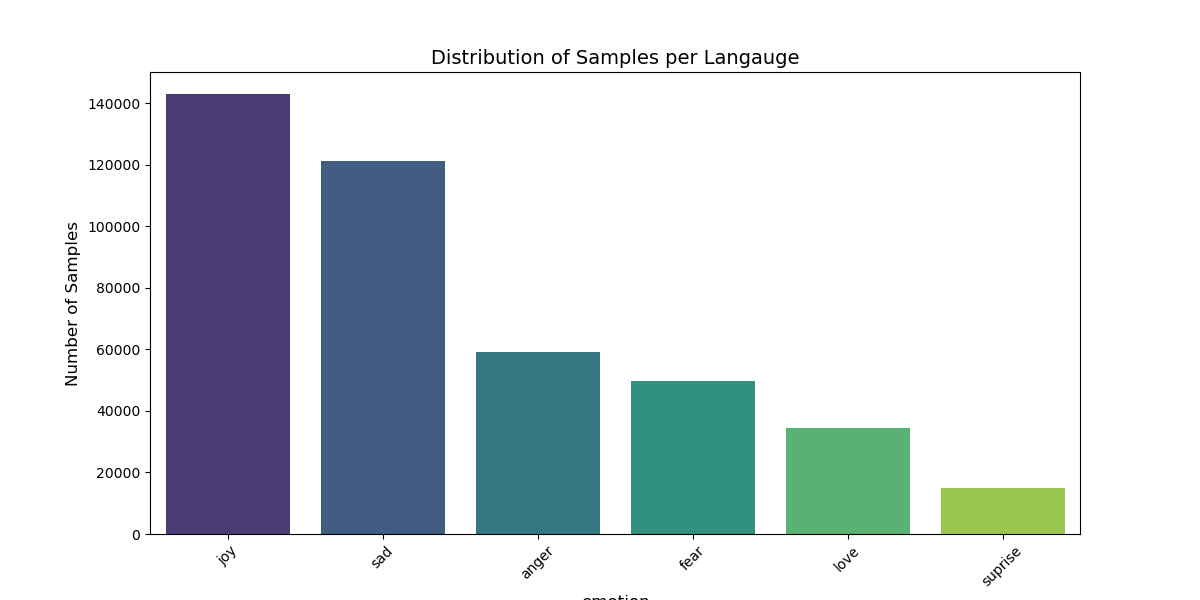
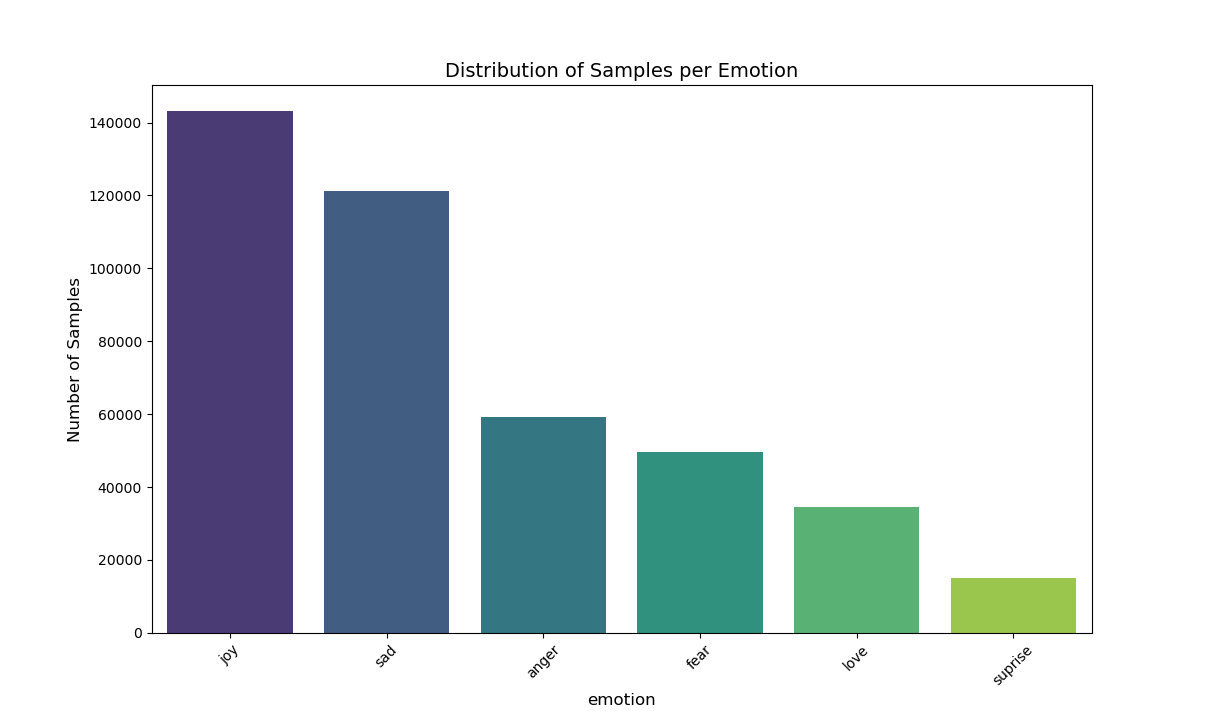
re generate plots

diff --git a/visualize.py b/visualize.py
@@ -32,11 +32,11 @@ df = pd.read_csv("combined_emotion.csv")
 # sns.barplot(x=emotionCount.index, y=emotionCount.values, palette="viridis")
 # plt.xlabel("emotion", fontsize=12)
 # plt.ylabel("Number of Samples", fontsize=12)
-# plt.title("Distribution of Samples per Langauge", fontsize=14)
+# plt.title("Distribution of Samples per Emotion", fontsize=14)
 # plt.xticks(rotation=45)
 # plt.show()
 
-exit(0)
+#exit(0)
 
 # Preprocess and tokenize
 # Preprocessing function
@@ -56,22 +56,23 @@ for emotion, group in df.groupby('emotion'):
     words = [word for sentence in group['processed'] for word in sentence]  # Flatten word list
     emotion_word_counts[emotion] = Counter(words).most_common(10)  # Get top 10 words
 
-# Used to generate one plot of common words for all emotion
-# Convert to DataFrame for visualization
-# plot_data = []
-# for emotion, words in emotion_word_counts.items():
-#     for word, count in words:
-#         plot_data.append((emotion, word, count))
+#Used to generate one plot of common words for all emotion
+#Convert to DataFrame for visualization
+plot_data = []
+for emotion, words in emotion_word_counts.items():
+    for word, count in words:
+        plot_data.append((emotion, word, count))
 
-# plot_df = pd.DataFrame(plot_data, columns=['emotion', 'word', 'count'])
+plot_df = pd.DataFrame(plot_data, columns=['emotion', 'word', 'count'])
 
-# # Plot using seaborn
-# plt.figure(figsize=(12, 6))
-# sns.barplot(data=plot_df, x='word', y='count', hue='emotion')
-# plt.xticks(rotation=45)
-# plt.title('Most Common Words Per Emotion')
-# plt.show()
+# Plot using seaborn
+plt.figure(figsize=(12, 6))
+sns.barplot(data=plot_df, x='word', y='count', hue='emotion')
+plt.xticks(rotation=45)
+plt.title('Most Common Words Per Emotion')
+plt.show()
 
+exit(0)
 # Used to generate plots of common words for each emotion 
 # Plot using subplots for each emotion
 fig, axes = plt.subplots(len(emotion_word_counts), 1, figsize=(10, 12))
